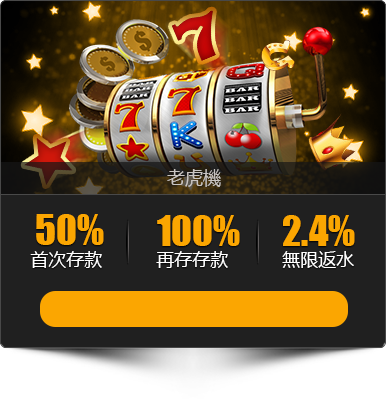
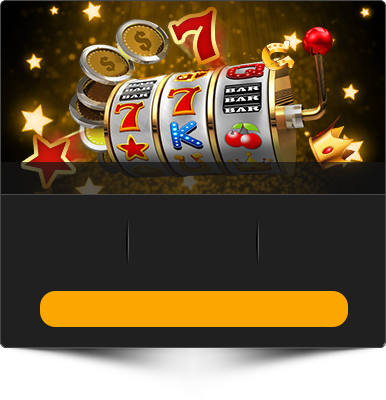
edited by remo

diff --git a/index.html b/index.html
@@ -803,14 +803,26 @@
         <div class="live-container container">
             <div class="col-md-4 col-sm-4 col-xs-12">
                 <div class="live-game">
-                    <img src="assets/img/index/live games.png" class="img-responsive img-responsive-live-games" alt="真人娛樂場" title="真人娛樂場">
-                    <a href="javascript:void(0)" class="lg-playnow login-modal-a btn-hidden sp-btn-hidden sp-btn-hidden2 arrow-right-brown">立即遊戲 </a>
+                  <img src="assets/img/index/live games.png" class="img-responsive img-responsive-live-games" alt="真人娛樂場" title="真人娛樂場">
+                  <div class="title">真人娛樂場</div>
+                  <ul>
+                    <li><span>25%</span>首次存款</li>
+                    <li><span>50%</span>再存存款</li>
+                    <li><span>1%</span>無限返水</li>
+                  </ul>
+                  <a href="javascript:void(0)" class="lg-playnow login-modal-a btn-hidden sp-btn-hidden sp-btn-hidden2 arrow-right-brown">立即遊戲 </a>
                 </div>
             </div>
 
             <div class="col-md-4 col-sm-4 col-xs-12">
                 <div class="live-game">
                     <img src="assets/img/index/slot machine.png" class="img-responsive img-responsive-live-games" alt="角子老虎機" title="角子老虎機">
+                    <div class="title">捕魚</div>
+                    <ul>
+                      <li><span>25%</span>首次存款</li>
+                      <li><span>50%</span>再存存款</li>
+                      <li><span>1%</span>無限返水</li>
+                    </ul>
                     <a href="javascript:void(0)" class="lg-playnow login-modal-a btn-hidden sp-btn-hidden sp-btn-hidden2 arrow-right-brown">立即遊戲 </a>
                 </div>
             </div>
@@ -818,6 +830,12 @@
             <div class="col-md-4 col-sm-4 col-xs-12">
                 <div class="live-game">
                     <img src="assets/img/index/fish.png" class="img-responsive img-responsive-live-games" alt="沙龍匯彩票" title="沙龍匯彩票">
+                    <div class="title">老虎機</div>
+                    <ul>
+                      <li><span>25%</span>首次存款</li>
+                      <li><span>50%</span>再存存款</li>
+                      <li><span>1%</span>無限返水</li>
+                    </ul>
                     <a href="javascript:void(0)" class="lg-playnow login-modal-a btn-hidden sp-btn-hidden sp-btn-hidden2 arrow-right-brown">立即遊戲 </a>
                 </div>
             </div>

diff --git a/afterlogin.html b/afterlogin.html
@@ -729,14 +729,26 @@
       <div class="live-container container">
           <div class="col-md-4 col-sm-4 col-xs-12">
               <div class="live-game">
-                  <img src="assets/img/index/live games.png" class="img-responsive img-responsive-live-games" alt="真人娛樂場" title="真人娛樂場">
-                  <a href="javascript:void(0)" class="lg-playnow login-modal-a btn-hidden sp-btn-hidden sp-btn-hidden2 arrow-right-brown">立即遊戲 </a>
+                <img src="assets/img/index/live games.png" class="img-responsive img-responsive-live-games" alt="真人娛樂場" title="真人娛樂場">
+                <div class="title">真人娛樂場</div>
+                <ul>
+                  <li><span>25%</span>首次存款</li>
+                  <li><span>50%</span>再存存款</li>
+                  <li><span>1%</span>無限返水</li>
+                </ul>
+                <a href="javascript:void(0)" class="lg-playnow login-modal-a btn-hidden sp-btn-hidden sp-btn-hidden2 arrow-right-brown">立即遊戲 </a>
               </div>
           </div>
 
           <div class="col-md-4 col-sm-4 col-xs-12">
               <div class="live-game">
                   <img src="assets/img/index/slot machine.png" class="img-responsive img-responsive-live-games" alt="角子老虎機" title="角子老虎機">
+                  <div class="title">捕魚</div>
+                  <ul>
+                    <li><span>25%</span>首次存款</li>
+                    <li><span>50%</span>再存存款</li>
+                    <li><span>1%</span>無限返水</li>
+                  </ul>
                   <a href="javascript:void(0)" class="lg-playnow login-modal-a btn-hidden sp-btn-hidden sp-btn-hidden2 arrow-right-brown">立即遊戲 </a>
               </div>
           </div>
@@ -744,6 +756,12 @@
           <div class="col-md-4 col-sm-4 col-xs-12">
               <div class="live-game">
                   <img src="assets/img/index/fish.png" class="img-responsive img-responsive-live-games" alt="沙龍匯彩票" title="沙龍匯彩票">
+                  <div class="title">老虎機</div>
+                  <ul>
+                    <li><span>25%</span>首次存款</li>
+                    <li><span>50%</span>再存存款</li>
+                    <li><span>1%</span>無限返水</li>
+                  </ul>
                   <a href="javascript:void(0)" class="lg-playnow login-modal-a btn-hidden sp-btn-hidden sp-btn-hidden2 arrow-right-brown">立即遊戲 </a>
               </div>
           </div>

diff --git a/assets/css/media.css b/assets/css/media.css
@@ -1282,6 +1282,16 @@
     #myModal .modal-bottom{
       text-align: center;
     }
+    .live-game .title{
+      bottom: 43.7%;
+    }
+    .live-game ul{
+      bottom: 22%;
+    }
+    .live-game ul li span{
+      font-size: 38px;
+      line-height: 38px;
+    }
 }
 
 @media only screen and (min-width: 360px) {
@@ -1548,6 +1558,16 @@
     }
     .bago-pages .boxer  div.step-txt{
       display: block;
+    }
+    .live-game .title{
+      bottom: 45%;
+    }
+    .live-game ul{
+      bottom: 23%;
+    }
+    .live-game ul li span{
+      font-size: 40px;
+      line-height: 40px;
     }
 }
 
@@ -1843,6 +1863,12 @@
     .boxer .step-no{
       font-size: 2em;
     }
+    .live-game .title{
+      bottom: 45.5%;
+    }
+    .live-game ul{
+      bottom: 24%;
+    }
 }
 
 @media only screen and (min-width: 412px) {
@@ -2116,6 +2142,12 @@
     }
     .footer .columns.f-social {
       margin: 0 -16px 0 -4px;
+    }
+    .live-game .title{
+      bottom: 46%;
+    }
+    .live-game ul{
+      bottom: 26%;
     }
 }
 
@@ -4738,5 +4770,15 @@ main .marquee {
   .payment-form{
     width: 650px;
     margin: 0px auto;
+  }
+  .live-game .title{
+    bottom: 46.5%;
+  }
+  .live-game ul{
+    bottom: 27%;
+  }
+  .live-game ul li span{
+    font-size: 40px;
+    line-height: 40px;
   }
 }

diff --git a/assets/css/main.css b/assets/css/main.css
@@ -9818,3 +9818,30 @@ padding: 10px 0;
   max-width: 230px;
   margin: 0px auto
 }
+.live-game .title{
+  color: #c9c5c2;
+  position: absolute;
+  font-size: 16px;
+  right: 0;
+  left: 0;
+  text-align: center;
+}
+.live-game ul{
+  position: absolute;
+  list-style: none;
+  right: 0;
+  left: 0;
+  padding: 0;
+}
+.live-game ul li{
+  float: left;
+  width: 33.333%;
+  text-align: center;
+}
+.live-game ul li span{
+  font-family: Tungsten;
+  display: block;
+  font-weight: 700;
+  color: #fba601;
+  letter-spacing: 1px;
+}
